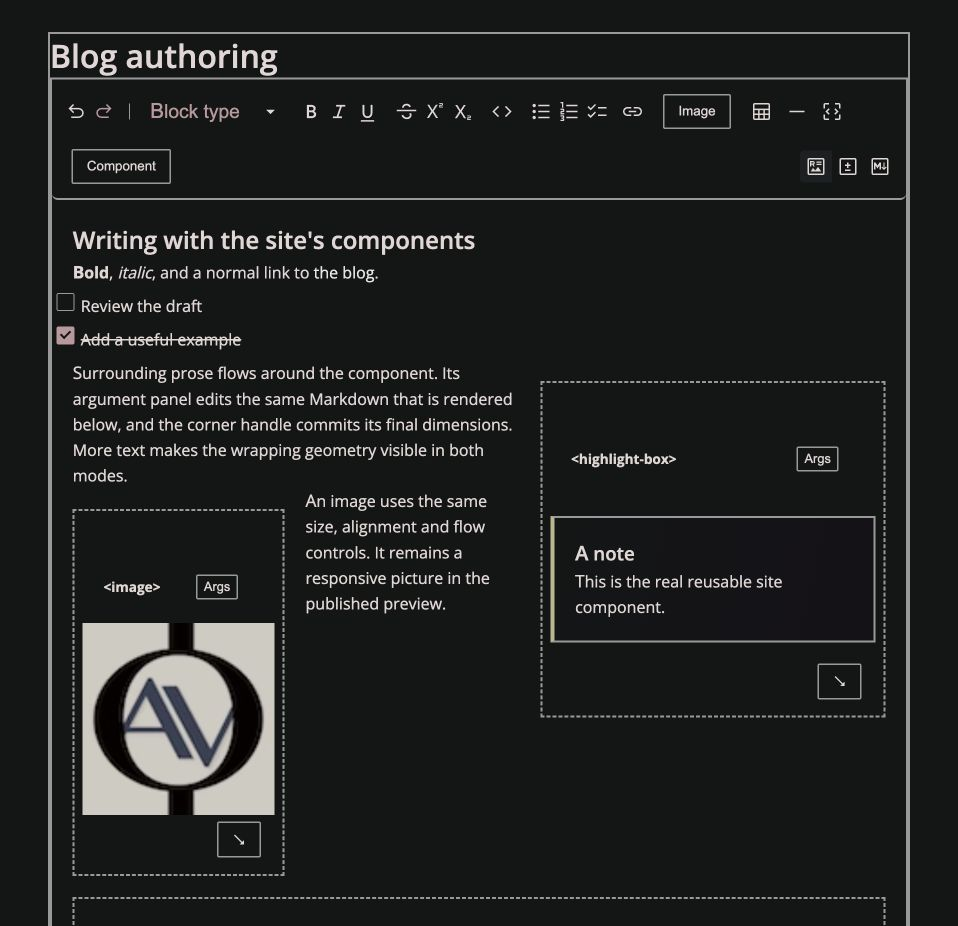
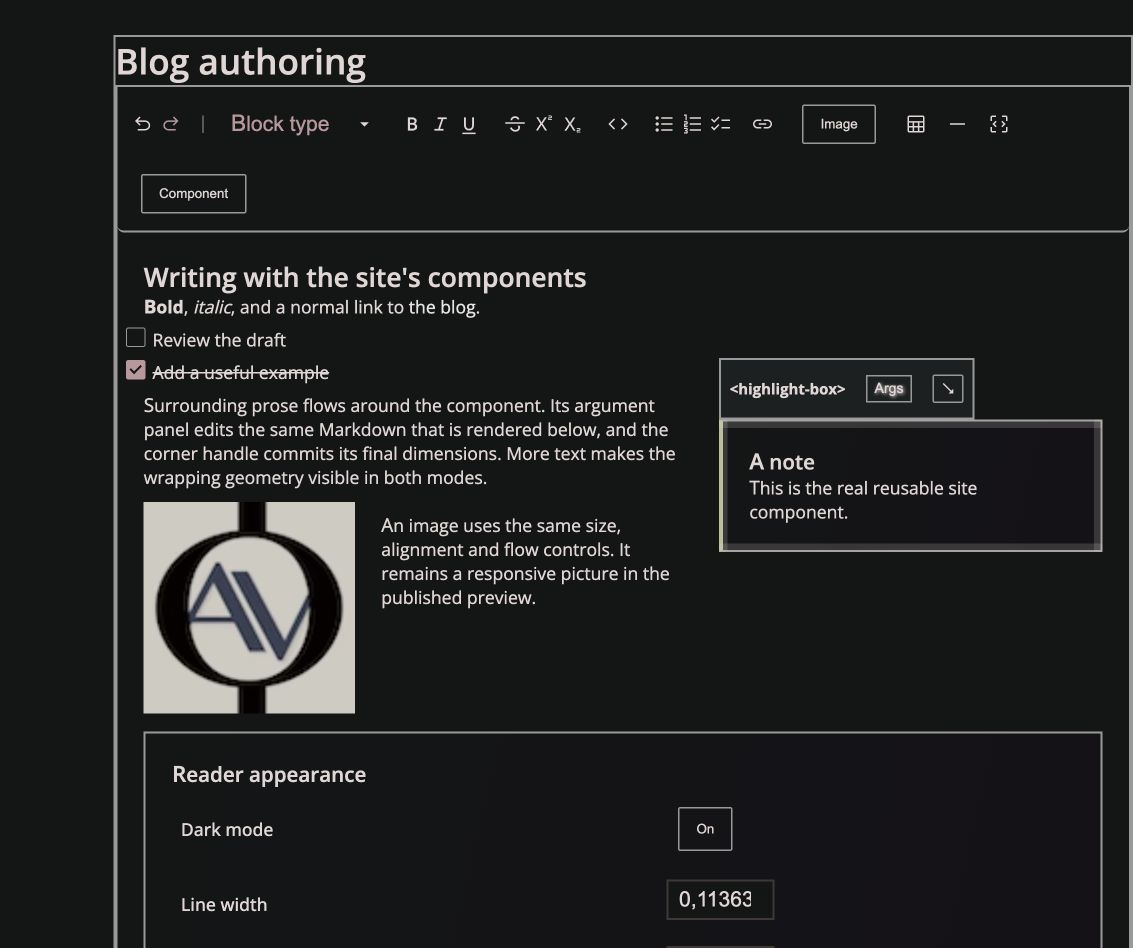
editor: fit widget controls and resize bounds to content

diff --git a/resources/scss/modules/markdown-editor.scss b/resources/scss/modules/markdown-editor.scss
@@ -8,7 +8,7 @@
 
 
   .mdxeditor { font-family: inherit; color: inherit; }
-  .md-editor-content { min-height: 20rem; padding: var(--space); line-height: 1.6; }
+  .md-editor-content { min-height: 20rem; padding: var(--space); line-height: inherit; }
   [role="toolbar"] { flex-wrap: wrap; gap: 0.2em; border-block-end: var(--line-width) solid var(--line-color); }
   button { color: inherit; }
   input, select, textarea { color: var(--fg-1); background: var(--bg-1); }
@@ -93,11 +93,13 @@
 // owner so following paragraphs actually wrap; an inner float cannot do this.
 .md-editor-content > div:has(> .md-component-node[data-flow="left"]) {
   float: left;
+  margin-inline-end: var(--space);
   width: fit-content;
   max-width: 100%;
 }
 .md-editor-content > div:has(> .md-component-node[data-flow="right"]) {
   float: right;
+  margin-inline-start: var(--space);
   width: fit-content;
   max-width: 100%;
 }
@@ -112,7 +114,13 @@
   touch-action: none;
 }
 
-.md-component-node { display: flow-root; }
+.md-component-node { display: block; }
+.md-component-node[data-flow="left"],
+.md-component-node[data-flow="right"] { display: flow-root; }
+.md-component-node:has(> .content-widget > .content-box, > .content-widget > .content-config) {
+  margin-block: var(--space);
+}
+.md-component-node > .content-widget { margin-block: 0; }
 
 .md-image-picker { position: relative; }
 .md-image-picker__menu {
@@ -183,7 +191,7 @@
 .md-component-node > .md-resize-edge,
 .md-media-node > .md-resize-edge {
   position: absolute;
-  z-index: 6;
+  z-index: 8;
   padding: 0;
   border: 0;
   background: transparent;
@@ -191,10 +199,10 @@
   touch-action: none;
   &[data-edge="left"], &[data-edge="right"] { inset-block: 0; width: 0.5rem; cursor: ew-resize; }
   &[data-edge="top"], &[data-edge="bottom"] { inset-inline: 0; height: 0.5rem; cursor: ns-resize; }
-  &[data-edge="left"] { inset-inline-start: -0.25rem; }
-  &[data-edge="right"] { inset-inline-end: -0.25rem; }
-  &[data-edge="top"] { inset-block-start: -0.25rem; }
-  &[data-edge="bottom"] { inset-block-end: -0.25rem; }
+  &[data-edge="left"] { inset-inline-start: 0; }
+  &[data-edge="right"] { inset-inline-end: 0; }
+  &[data-edge="top"] { inset-block-start: 0; }
+  &[data-edge="bottom"] { inset-block-end: 0; }
 }
 .md-component-node:hover > .md-resize-edge,
 .md-component-node:focus-within > .md-resize-edge,

diff --git a/resources/scss/modules/markdown-components.scss b/resources/scss/modules/markdown-components.scss
@@ -27,6 +27,8 @@
 
 .content-widget {
   box-sizing: border-box;
+  &:has(> .content-box, > .content-config) { margin-block: var(--space); }
+  > .content-box, > .content-config { margin-block: 0; }
   &[data-flow="left"] { margin-inline-end: var(--space); }
   &[data-flow="right"] { margin-inline-start: var(--space); }
   &[data-align="center"] { text-align: center; }
@@ -38,6 +40,7 @@
 
 .content-widget[data-height-mode="fixed"] {
   overflow: auto;
+  > .content-box, > .content-config { height: 100%; }
   > picture, > .progressive-image { height: 100%; }
   > picture > img, > .progressive-image img, > img { width: 100%; height: 100%; object-fit: contain; }
 }

diff --git a/doc/markdown-authoring.md b/doc/markdown-authoring.md
@@ -214,6 +214,12 @@ relative units and isolates vendor palette variables. The owner styles use the
 site's palette, spacing, lines and rounded geometry. Popup portals stay inside the
 editor's overlay owner. Authored pixel dimensions are the explicit user-selected
 exception; application-owned CSS remains relative.
+The rich content uses the same Markdown typography/media styling as a public
+post. The native SDK wrapper owns floating text flow; its nested preview does
+not float a second time. Authored box/config spacing belongs outside their
+geometry wrapper, and fixed heights fill their visible roots. Hover controls sit
+directly above those bounds; edge hit areas stay inside them so following prose
+and adjacent widgets cannot mask the handles.
 
 Dependency changes require the verified Docker prefab refresh, using the shared
 capped BuildKit queue. Browser checks cover source round trips, both keyboard
